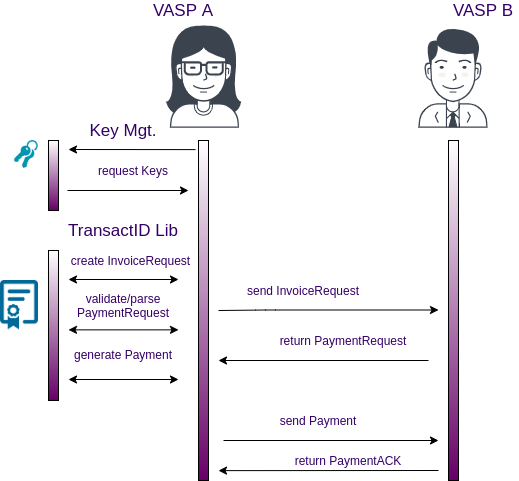
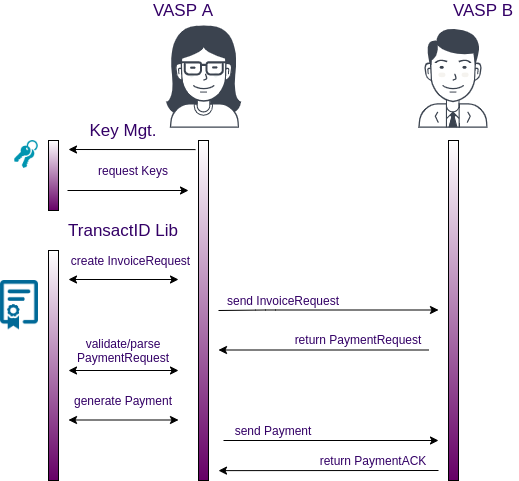
removed bad links and updated diagram

diff --git a/README.md b/README.md
@@ -160,7 +160,7 @@ To access the data from the `InvoiceRequest` just do:
  * Parse binary InvoiceRequest.
  *
  * @param invoiceRequestBinary binary data with the message to parse.
- * @return InvoiceRequest parsed.https://teamcity.myverify.io/app/rest/builds/buildType(id:TransactIdLibraryJava_VerifyPrMaster)/statusIcon
+ * @return InvoiceRequest parsed.
  * @exception InvalidObjectException if the binary is malformed.
  */
 @Throws(InvalidObjectException::class)
@@ -236,7 +236,7 @@ To access the data from the PaymentRequest just do:
  */
 @Throws(InvalidObjectException::class)
 fun parsePaymentRequest(paymentRequestBinary: ByteArray): PaymentRequest
-```https://teamcity.myverify.io/app/rest/builds/buildType(id:TransactIdLibraryJava_VerifyPrMaster)/statusIcon
+```
 
 And that will return an object with all of the fields of the PaymentRequest and the values that were
 filled in.
